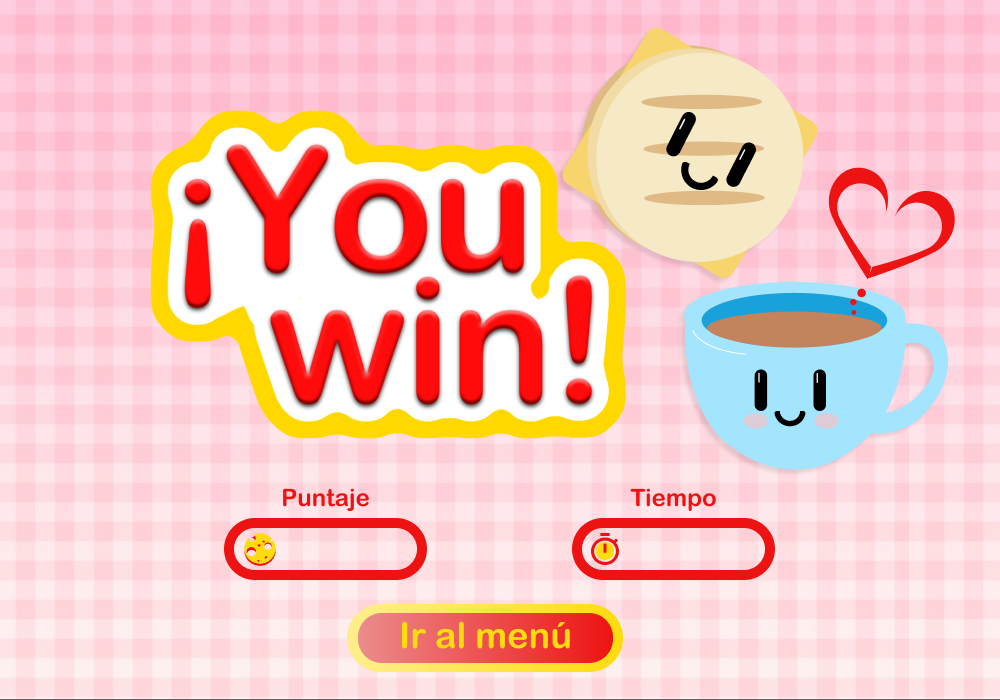
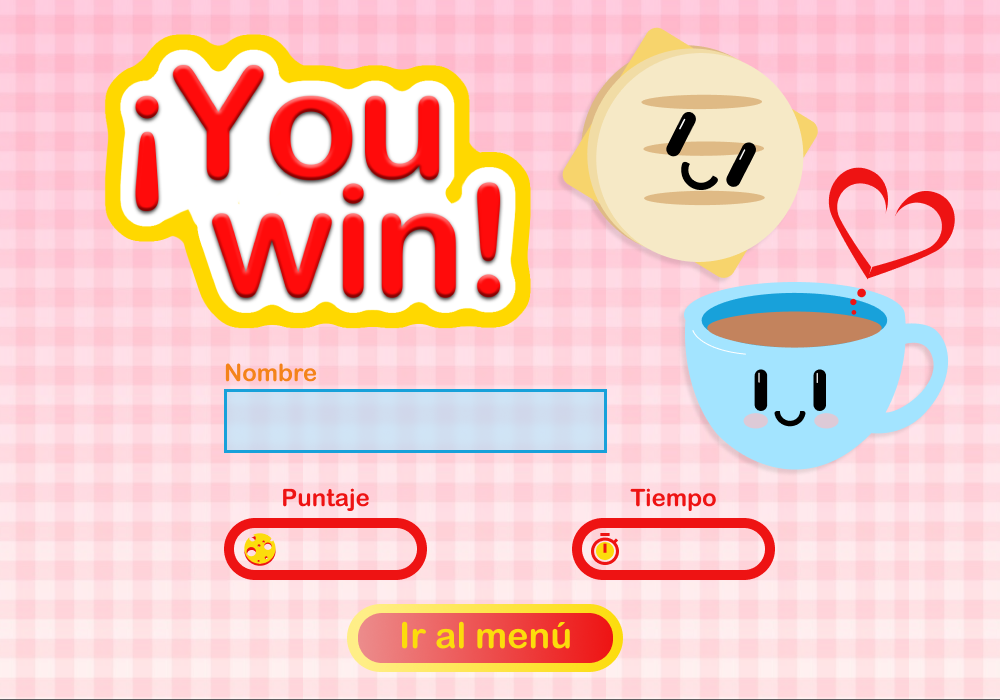
cambio de png y ordenamiento

Changed region(s): [[0.093, 0.03, 0.651, 0.66]]

diff --git a/src/model/Nombre.java b/src/model/Nombre.java
@@ -1,0 +1,47 @@
+package model;
+
+import processing.core.PApplet;
+
+public class Nombre implements Comparable <Nombre>{
+
+	private PApplet app;
+	private String name;
+	
+	public Nombre(String name,PApplet app) {
+		super();
+		this.app=app;
+		this.name=name;
+		
+	}
+	public int compareTo(Nombre n) {
+		return this.getName().compareTo(n.getName()); 
+	}
+
+	public void draw(int x, int y) {
+		app.fill(0);
+		app.text(this.name, x, y);
+		y+=70;
+	}
+	
+	
+	//Getters & Setters
+	public PApplet getApp() {
+		return app;
+	}
+
+
+	public void setApp(PApplet app) {
+		this.app = app;
+	}
+
+
+	public String getName() {
+		return name;
+	}
+
+
+	public void setName(String name) {
+		this.name = name;
+	}
+
+}

diff --git a/src/model/Match.java b/src/model/Match.java
@@ -1,19 +1,22 @@
 package model;
 
 
-public class Match implements Comparable{
+public class Match implements Comparable <Match>{
 
-	String[] name;
+	String name, date;
 	private int score, time;
-	//date date;
 	
 	
 	
-	public int compareTo(Object arg0) {
+	public int compareTo(Match o) {
 		// TODO Auto-generated method stub
 		return 0;
 	}
+	
+	
 
+	
+	//Getters & Setters
 	public int getTime() {
 		return time;
 	}
@@ -29,6 +32,8 @@ public class Match implements Comparable{
 	public void setScore(int score) {
 		this.score = score;
 	}
+
+	
 
 	
 	

diff --git a/src/model/CompareDateMatch.java b/src/model/CompareDateMatch.java
@@ -2,12 +2,14 @@ package model;
 
 import java.util.Comparator;
 
-public class CompareDateMatch implements Comparator{
+public class CompareDateMatch implements Comparator <CompareDateMatch>{
 
 	
-	public int compare(Object o1, Object o2) {
-		// TODO Auto-generated method stub
+	public int compare(CompareDateMatch o1, CompareDateMatch o2) {
 		return 0;
 	}
+
+	
+	
 
 }

diff --git a/src/model/CompareTimeMatch.java b/src/model/CompareTimeMatch.java
@@ -2,12 +2,15 @@ package model;
 
 import java.util.Comparator;
 
-public class CompareTimeMatch implements Comparator{
+public class CompareTimeMatch implements Comparator <CompareTimeMatch>{
 
 	
-	public int compare(Object o1, Object o2) {
+	public int compare(CompareTimeMatch o1, CompareTimeMatch o2) {
 		// TODO Auto-generated method stub
 		return 0;
 	}
+
+	
+
 
 }

diff --git a/src/model/CompareScoreMatch.java b/src/model/CompareScoreMatch.java
@@ -2,10 +2,11 @@ package model;
 
 import java.util.Comparator;
 
-public class CompareScoreMatch implements Comparator{
+public class CompareScoreMatch implements Comparator <CompareScoreMatch>{
+
 
 	
-	public int compare(Object o1, Object o2) {
+	public int compare(CompareScoreMatch arg0, CompareScoreMatch arg1) {
 		// TODO Auto-generated method stub
 		return 0;
 	}
